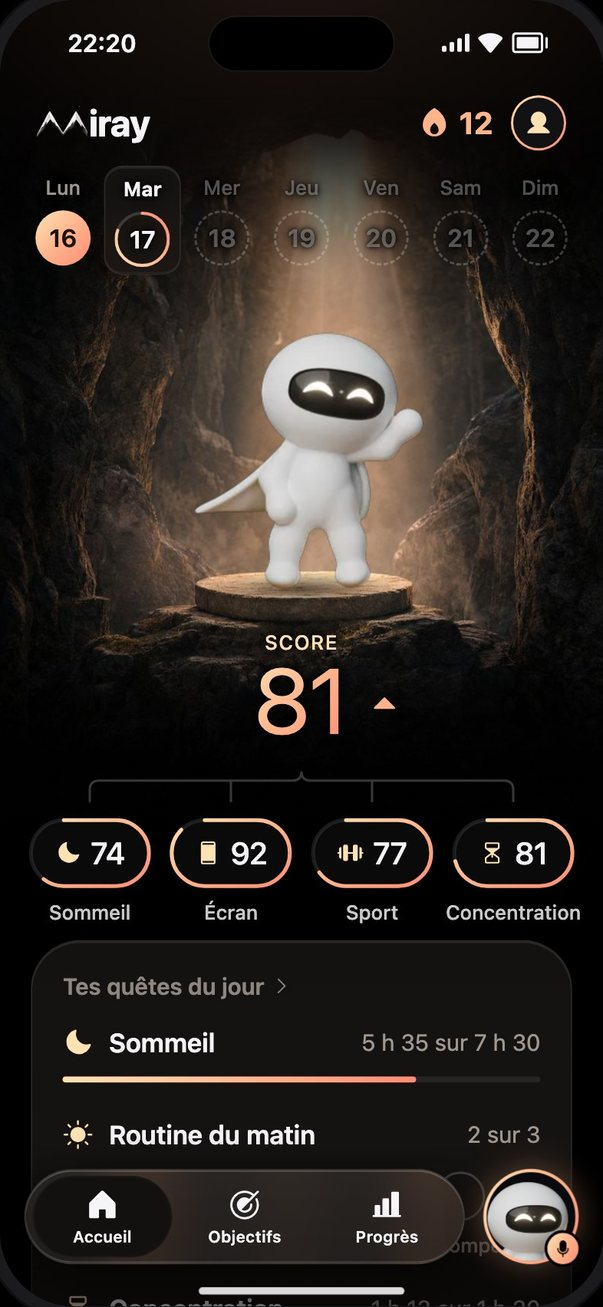
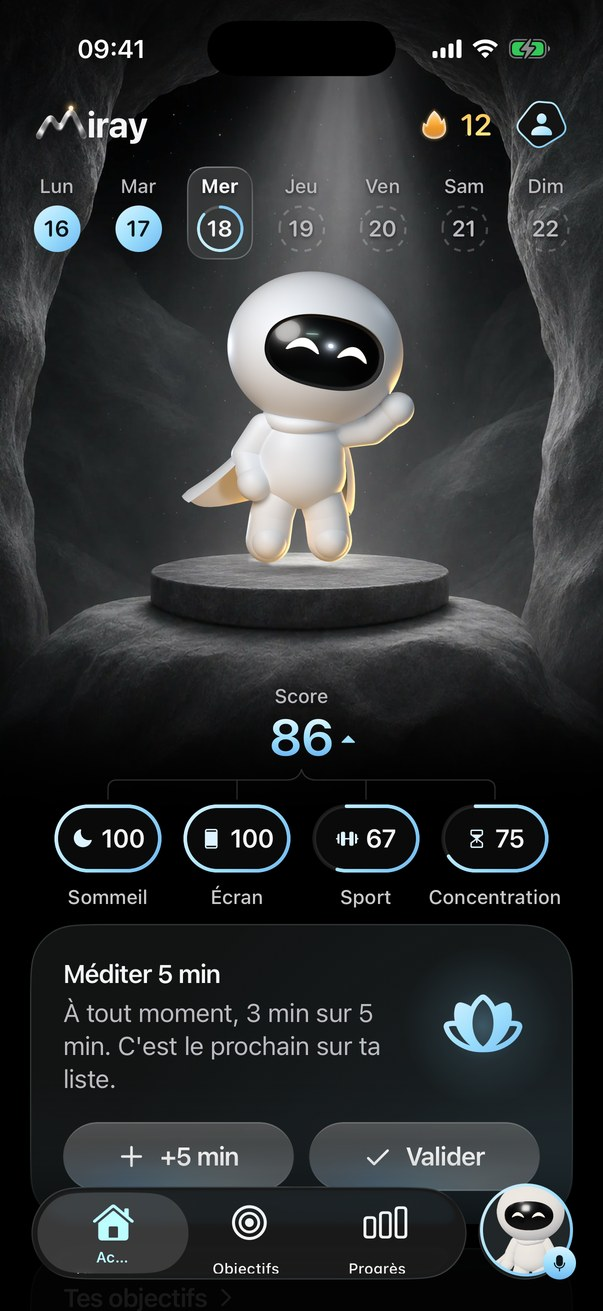
Couleur d'accent : passage au bleu Glace

diff --git a/index.html b/index.html
@@ -17,8 +17,8 @@
 <link href="https://fonts.googleapis.com/css2?family=Inter:wght@400;500;600;700&display=swap" rel="stylesheet">
 <style>
 :root{
-  --nuit:#0b0910; --nuit2:#141019; --carte:#1a1520; --trait:rgba(255,255,255,.09);
-  --texte:#F5ECE6; --doux:#B9ADA6; --peche:#F4A47E; --peche-clair:#FFD9BC; --creme:#FFE2B4;
+  --nuit:#070a10; --nuit2:#0e131b; --carte:#141a22; --trait:rgba(255,255,255,.09);
+  --texte:#EEF8FC; --doux:#A9B4BA; --peche:#6FB8F2; --peche-clair:#AEDCF2; --creme:#9FE0FD;
   --r:28px;
 }
 *{box-sizing:border-box;margin:0;padding:0}
@@ -31,25 +31,25 @@ a{color:inherit;text-decoration:none}
 
 /* en-tête */
 .entete{position:fixed;inset:0 0 auto 0;z-index:50;transition:background .3s,backdrop-filter .3s}
-.entete.plein{background:rgba(11,9,16,.72);backdrop-filter:blur(18px) saturate(140%);-webkit-backdrop-filter:blur(18px) saturate(140%);border-bottom:1px solid var(--trait)}
+.entete.plein{background:rgba(7,10,16,.72);backdrop-filter:blur(18px) saturate(140%);-webkit-backdrop-filter:blur(18px) saturate(140%);border-bottom:1px solid var(--trait)}
 .entete .page{display:flex;align-items:center;justify-content:space-between;height:68px}
 .marque{display:flex;align-items:flex-end;gap:4px;font-weight:700;font-size:24px;letter-spacing:-.5px}
 .marque img{height:30px;width:auto;margin-bottom:1px}
-.btn-petit{background:var(--texte);color:#140f0c;font-weight:600;font-size:15px;padding:10px 18px;border-radius:999px;transition:transform .2s}
+.btn-petit{background:var(--texte);color:#0b1318;font-weight:600;font-size:15px;padding:10px 18px;border-radius:999px;transition:transform .2s}
 .btn-petit:hover{transform:scale(1.04)}
 
 /* héros */
 .heros{position:relative;min-height:100svh;display:flex;align-items:center;padding:120px 0 0;overflow:hidden}
 .heros::before{content:"";position:absolute;inset:0;background:url(img/panorama.jpg) center 70%/cover;z-index:-2}
-.heros::after{content:"";position:absolute;inset:0;background:linear-gradient(180deg,rgba(11,9,16,.55) 0%,rgba(11,9,16,.15) 40%,rgba(11,9,16,.35) 75%,var(--nuit) 100%);z-index:-1}
+.heros::after{content:"";position:absolute;inset:0;background:linear-gradient(180deg,rgba(7,10,16,.55) 0%,rgba(7,10,16,.15) 40%,rgba(7,10,16,.35) 75%,var(--nuit) 100%);z-index:-1}
 .heros .page{display:grid;grid-template-columns:1.15fr .85fr;gap:40px;align-items:center;width:100%}
 h1{font-size:clamp(42px,4.3vw,62px);line-height:1.02;letter-spacing:-.035em;font-weight:700}
 h1 .ligne{display:block}
 h1{text-wrap:balance}
-.sous{font-size:clamp(18px,1.6vw,21px);color:#E3D8D1;max-width:520px;margin-top:22px}
+.sous{font-size:clamp(18px,1.6vw,21px);color:#D5E3EA;max-width:520px;margin-top:22px}
 .actions{display:flex;align-items:center;gap:18px;margin-top:34px;flex-wrap:wrap}
 .appstore{display:inline-flex;align-items:center;gap:12px;background:#000;border:1px solid rgba(255,255,255,.28);color:#fff;padding:10px 22px 10px 18px;border-radius:14px;transition:transform .2s,box-shadow .2s}
-.appstore:hover{transform:translateY(-2px);box-shadow:0 12px 30px rgba(244,164,126,.25)}
+.appstore:hover{transform:translateY(-2px);box-shadow:0 12px 30px rgba(111,184,242,.25)}
 .appstore svg{width:28px;height:28px}
 .appstore small{display:block;font-size:11px;line-height:1;opacity:.85}
 .appstore b{display:block;font-size:21px;line-height:1.1;font-weight:600;letter-spacing:-.3px}
@@ -59,7 +59,7 @@ h1{text-wrap:balance}
 .tel .ecran{position:absolute;left:5.33%;top:2.5%;width:89.33%;height:95%;border-radius:12%/6%;overflow:hidden;background:#000}
 .tel .ecran img{width:100%;height:100%;object-fit:cover}
 .tel .cadre{position:absolute;inset:0;width:100%;height:100%}
-.scene .compagnon{position:absolute;filter:drop-shadow(0 0 2px rgba(255,214,170,.5)) drop-shadow(0 0 40px rgba(255,170,130,.3)) drop-shadow(0 28px 34px rgba(0,0,0,.5))}
+.scene .compagnon{position:absolute;filter:drop-shadow(0 0 2px rgba(190,227,244,.5)) drop-shadow(0 0 40px rgba(111,184,242,.3)) drop-shadow(0 28px 34px rgba(0,0,0,.5))}
 .scene .c1{left:-4%;bottom:-2%;height:42%}
 .scene .c2{right:-2%;bottom:6%;height:36%}
 
@@ -71,7 +71,7 @@ h2{font-size:clamp(36px,4.6vw,60px);line-height:1.05;letter-spacing:-.03em;font-
 
 /* fonctions */
 .fonctions{display:grid;grid-template-columns:repeat(2,1fr);gap:22px;margin-top:56px}
-.fonction{background:radial-gradient(110% 55% at 50% 108%,rgba(244,164,126,.16),transparent 62%),linear-gradient(180deg,var(--carte),var(--nuit2));border:1px solid var(--trait);border-radius:var(--r);padding:34px 34px 0;overflow:hidden;display:flex;flex-direction:column;min-height:560px;position:relative}
+.fonction{background:radial-gradient(110% 55% at 50% 108%,rgba(111,184,242,.16),transparent 62%),linear-gradient(180deg,var(--carte),var(--nuit2));border:1px solid var(--trait);border-radius:var(--r);padding:34px 34px 0;overflow:hidden;display:flex;flex-direction:column;min-height:560px;position:relative}
 .num{font-size:13px;color:var(--peche);font-weight:600;letter-spacing:.08em}
 .fonction h3{font-size:28px;letter-spacing:-.02em;line-height:1.15;margin-top:10px}
 .fonction p{color:var(--doux);font-size:17px;margin-top:10px;max-width:420px}
@@ -81,26 +81,26 @@ h2{font-size:clamp(36px,4.6vw,60px);line-height:1.05;letter-spacing:-.03em;font-
 .fonction.large .tel{margin:0 0 -170px;width:260px;align-self:flex-end}
 .bulles{display:flex;flex-direction:column;gap:12px;margin-top:22px}
 .bulle{max-width:340px;padding:14px 18px;border-radius:20px;font-size:16px;line-height:1.4}
-.bulle.moi{align-self:flex-start;background:linear-gradient(180deg,#FFC9A3,var(--peche));color:#2a1408;border-bottom-left-radius:6px}
-.bulle.lui{align-self:flex-start;background:var(--texte);color:#1a1210;border-bottom-left-radius:6px;margin-left:28px}
-.bulle.lui b{display:block;font-size:12px;letter-spacing:.08em;color:#B9714B}
+.bulle.moi{align-self:flex-start;background:linear-gradient(180deg,#9FE0FD,var(--peche));color:#0D1E26;border-bottom-left-radius:6px}
+.bulle.lui{align-self:flex-start;background:var(--texte);color:#101519;border-bottom-left-radius:6px;margin-left:28px}
+.bulle.lui b{display:block;font-size:12px;letter-spacing:.08em;color:#476D81}
 
 /* étapes */
 .etapes{display:grid;grid-template-columns:repeat(3,1fr);gap:22px;margin-top:56px}
 .etape{border-top:1px solid var(--trait);padding-top:26px}
-.etape .rond{width:44px;height:44px;border-radius:50%;display:grid;place-items:center;font-weight:700;background:rgba(244,164,126,.14);color:var(--peche);border:1px solid rgba(244,164,126,.35)}
+.etape .rond{width:44px;height:44px;border-radius:50%;display:grid;place-items:center;font-weight:700;background:rgba(111,184,242,.14);color:var(--peche);border:1px solid rgba(111,184,242,.35)}
 .etape h3{font-size:22px;margin-top:18px;letter-spacing:-.01em}
 .etape p{color:var(--doux);margin-top:8px;font-size:16px}
 
 /* les Miray */
 .miray-bande{position:relative;margin-top:60px;border-radius:var(--r);overflow:hidden;border:1px solid var(--trait);padding:70px 20px 0;background:url(img/panorama.jpg) center 85%/cover}
-.miray-bande::before{content:"";position:absolute;inset:0;background:linear-gradient(180deg,rgba(11,9,16,.65),rgba(11,9,16,.1) 60%,rgba(11,9,16,.4))}
+.miray-bande::before{content:"";position:absolute;inset:0;background:linear-gradient(180deg,rgba(7,10,16,.65),rgba(7,10,16,.1) 60%,rgba(7,10,16,.4))}
 .rangee{position:relative;display:flex;justify-content:center;align-items:flex-end;gap:clamp(4px,2vw,26px)}
-.rangee img{height:clamp(100px,14vw,200px);width:auto;filter:drop-shadow(0 0 2px rgba(255,214,170,.45)) drop-shadow(0 22px 26px rgba(0,0,0,.5));transition:transform .35s cubic-bezier(.2,.9,.3,1.3)}
+.rangee img{height:clamp(100px,14vw,200px);width:auto;filter:drop-shadow(0 0 2px rgba(190,227,244,.45)) drop-shadow(0 22px 26px rgba(0,0,0,.5));transition:transform .35s cubic-bezier(.2,.9,.3,1.3)}
 .rangee img:hover{transform:translateY(-14px) scale(1.04)}
-.noms{position:relative;display:flex;justify-content:center;gap:26px;padding:26px 0 30px;color:#E3D8D1;font-size:15px;flex-wrap:wrap}
+.noms{position:relative;display:flex;justify-content:center;gap:26px;padding:26px 0 30px;color:#D5E3EA;font-size:15px;flex-wrap:wrap}
 .noms span::before{content:"";display:inline-block;width:9px;height:9px;border-radius:50%;margin-right:8px;vertical-align:middle}
-.noms .c::before{background:#F2EEEA}.noms .o::before{background:#1b1b1d;border:1px solid #666}.noms .m::before{background:#2c3a8f}
+.noms .c::before{background:#EEF2F5}.noms .o::before{background:#1b1b1d;border:1px solid #666}.noms .m::before{background:#2c3a8f}
 
 /* questions */
 .faq{margin-top:46px;max-width:820px}
@@ -114,10 +114,10 @@ details p{color:var(--doux);font-size:17px;padding:0 0 24px;max-width:700px}
 /* fin */
 .fin{position:relative;text-align:center;padding:150px 0 0;overflow:hidden}
 .fin::before{content:"";position:absolute;inset:0;background:url(img/panorama.jpg) center bottom/cover;opacity:.9;z-index:-2}
-.fin::after{content:"";position:absolute;inset:0;background:linear-gradient(180deg,var(--nuit) 0%,rgba(11,9,16,.35) 45%,rgba(11,9,16,.2) 100%);z-index:-1}
+.fin::after{content:"";position:absolute;inset:0;background:linear-gradient(180deg,var(--nuit) 0%,rgba(7,10,16,.35) 45%,rgba(7,10,16,.2) 100%);z-index:-1}
 .fin h2{max-width:780px;margin:12px auto 0}
 .fin .actions{justify-content:center}
-.fin .victoire{height:clamp(220px,32vw,380px);width:auto;margin:50px auto 0;filter:drop-shadow(0 0 3px rgba(255,214,170,.5)) drop-shadow(0 0 60px rgba(255,170,130,.35))}
+.fin .victoire{height:clamp(220px,32vw,380px);width:auto;margin:50px auto 0;filter:drop-shadow(0 0 3px rgba(190,227,244,.5)) drop-shadow(0 0 60px rgba(111,184,242,.35))}
 footer{border-top:1px solid var(--trait);padding:34px 0 46px;color:var(--doux);font-size:14px}
 footer .page{display:flex;justify-content:space-between;gap:20px;flex-wrap:wrap}
 footer nav{display:flex;gap:22px;flex-wrap:wrap}
@@ -154,7 +154,7 @@ footer a:hover{color:var(--texte)}
   h1{font-size:40px;line-height:1.05}
   .sous{font-size:17px;margin-top:16px}
   .actions{margin-top:24px;gap:12px}
-  .scene{height:auto;margin:36px -20px 0;padding:28px 0 0;justify-content:center;background:radial-gradient(70% 60% at 50% 70%,rgba(244,164,126,.28),transparent 70%)}
+  .scene{height:auto;margin:36px -20px 0;padding:28px 0 0;justify-content:center;background:radial-gradient(70% 60% at 50% 70%,rgba(111,184,242,.28),transparent 70%)}
   .scene .tel{width:230px}
   .scene .c1{left:2%;bottom:0;height:34%}
   .scene .c2{right:2%;bottom:4%;height:30%}
@@ -166,7 +166,7 @@ footer a:hover{color:var(--texte)}
   .fonction h3{font-size:26px}
   .fonction p{font-size:17px}
   .vitrine{display:flex;justify-content:center;align-items:flex-start;height:420px;margin-top:22px;border-radius:26px;overflow:hidden;padding-top:34px;border:1px solid var(--trait);
-    background:radial-gradient(90% 70% at 50% 100%,rgba(244,164,126,.30),transparent 65%),linear-gradient(180deg,#1d1722,#120e16)}
+    background:radial-gradient(90% 70% at 50% 100%,rgba(111,184,242,.30),transparent 65%),linear-gradient(180deg,#121821,#120e16)}
   .vitrine .tel,.fonction .vitrine .tel,.fonction.large .vitrine .tel{width:235px;margin:0;filter:drop-shadow(0 24px 30px rgba(0,0,0,.6))}
   .fonction:not(:has(.vitrine)){border:1px solid var(--trait);border-radius:24px;padding:26px 22px;background:linear-gradient(180deg,var(--carte),var(--nuit2))}
   .bulles{margin-top:18px}
